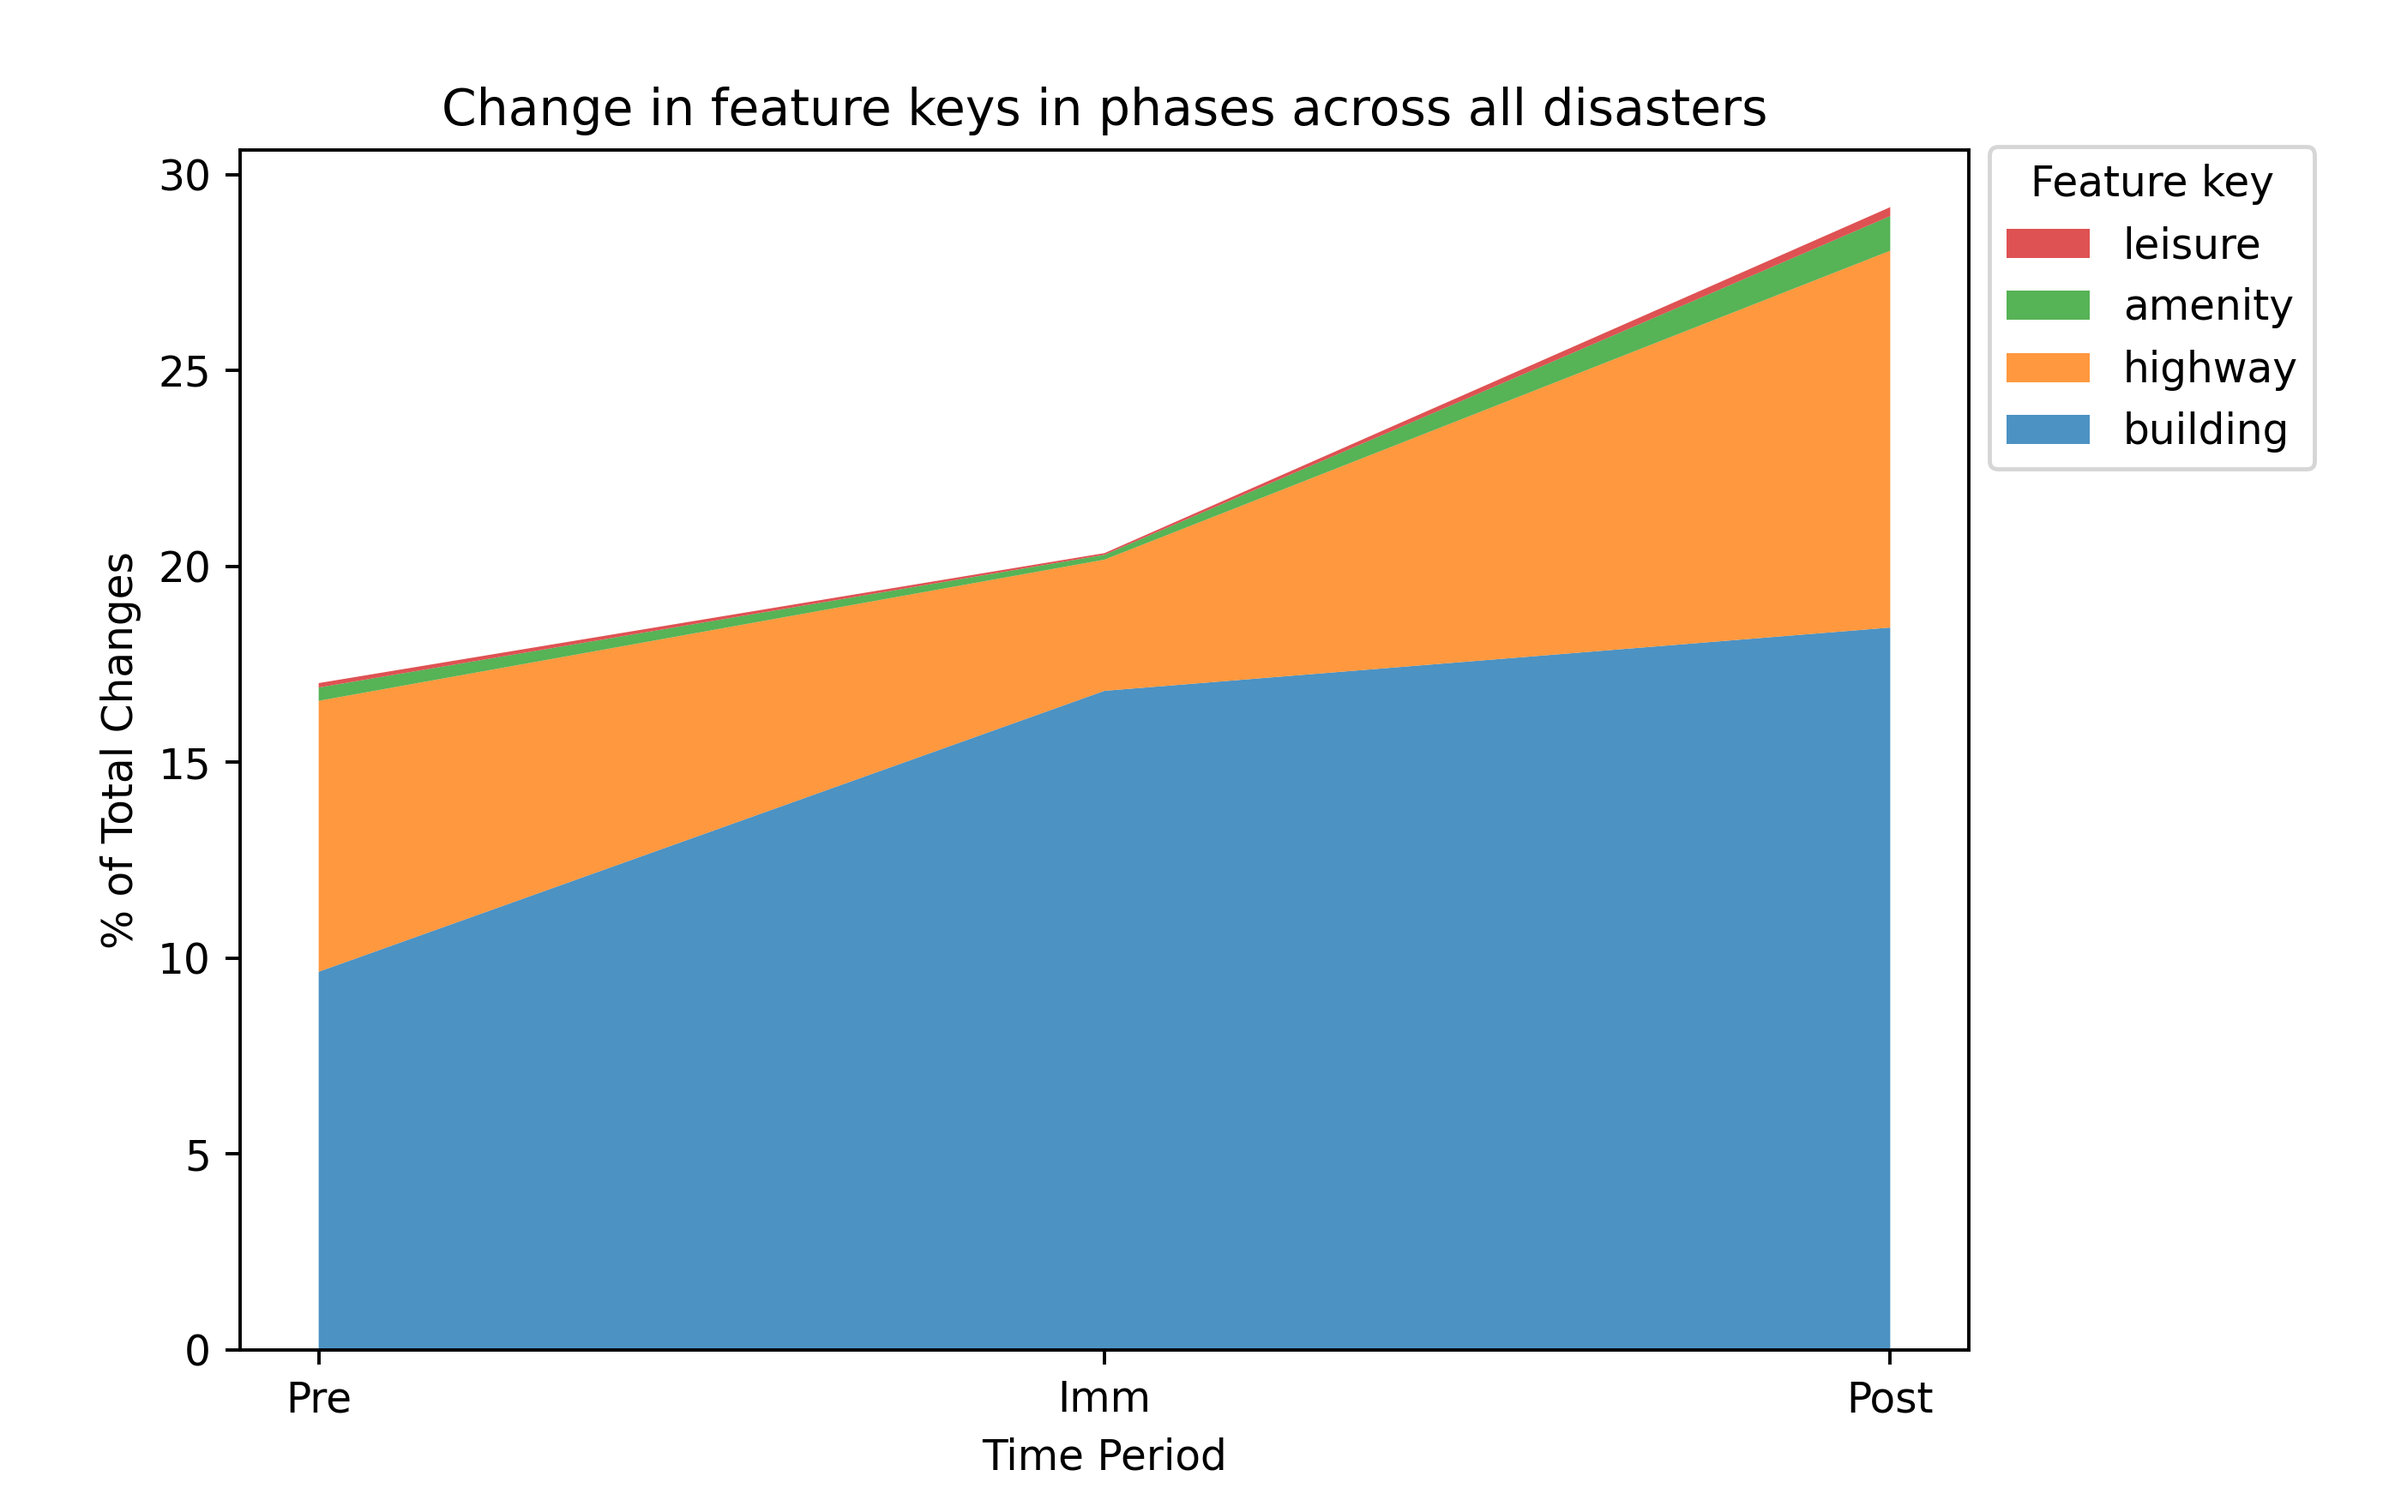
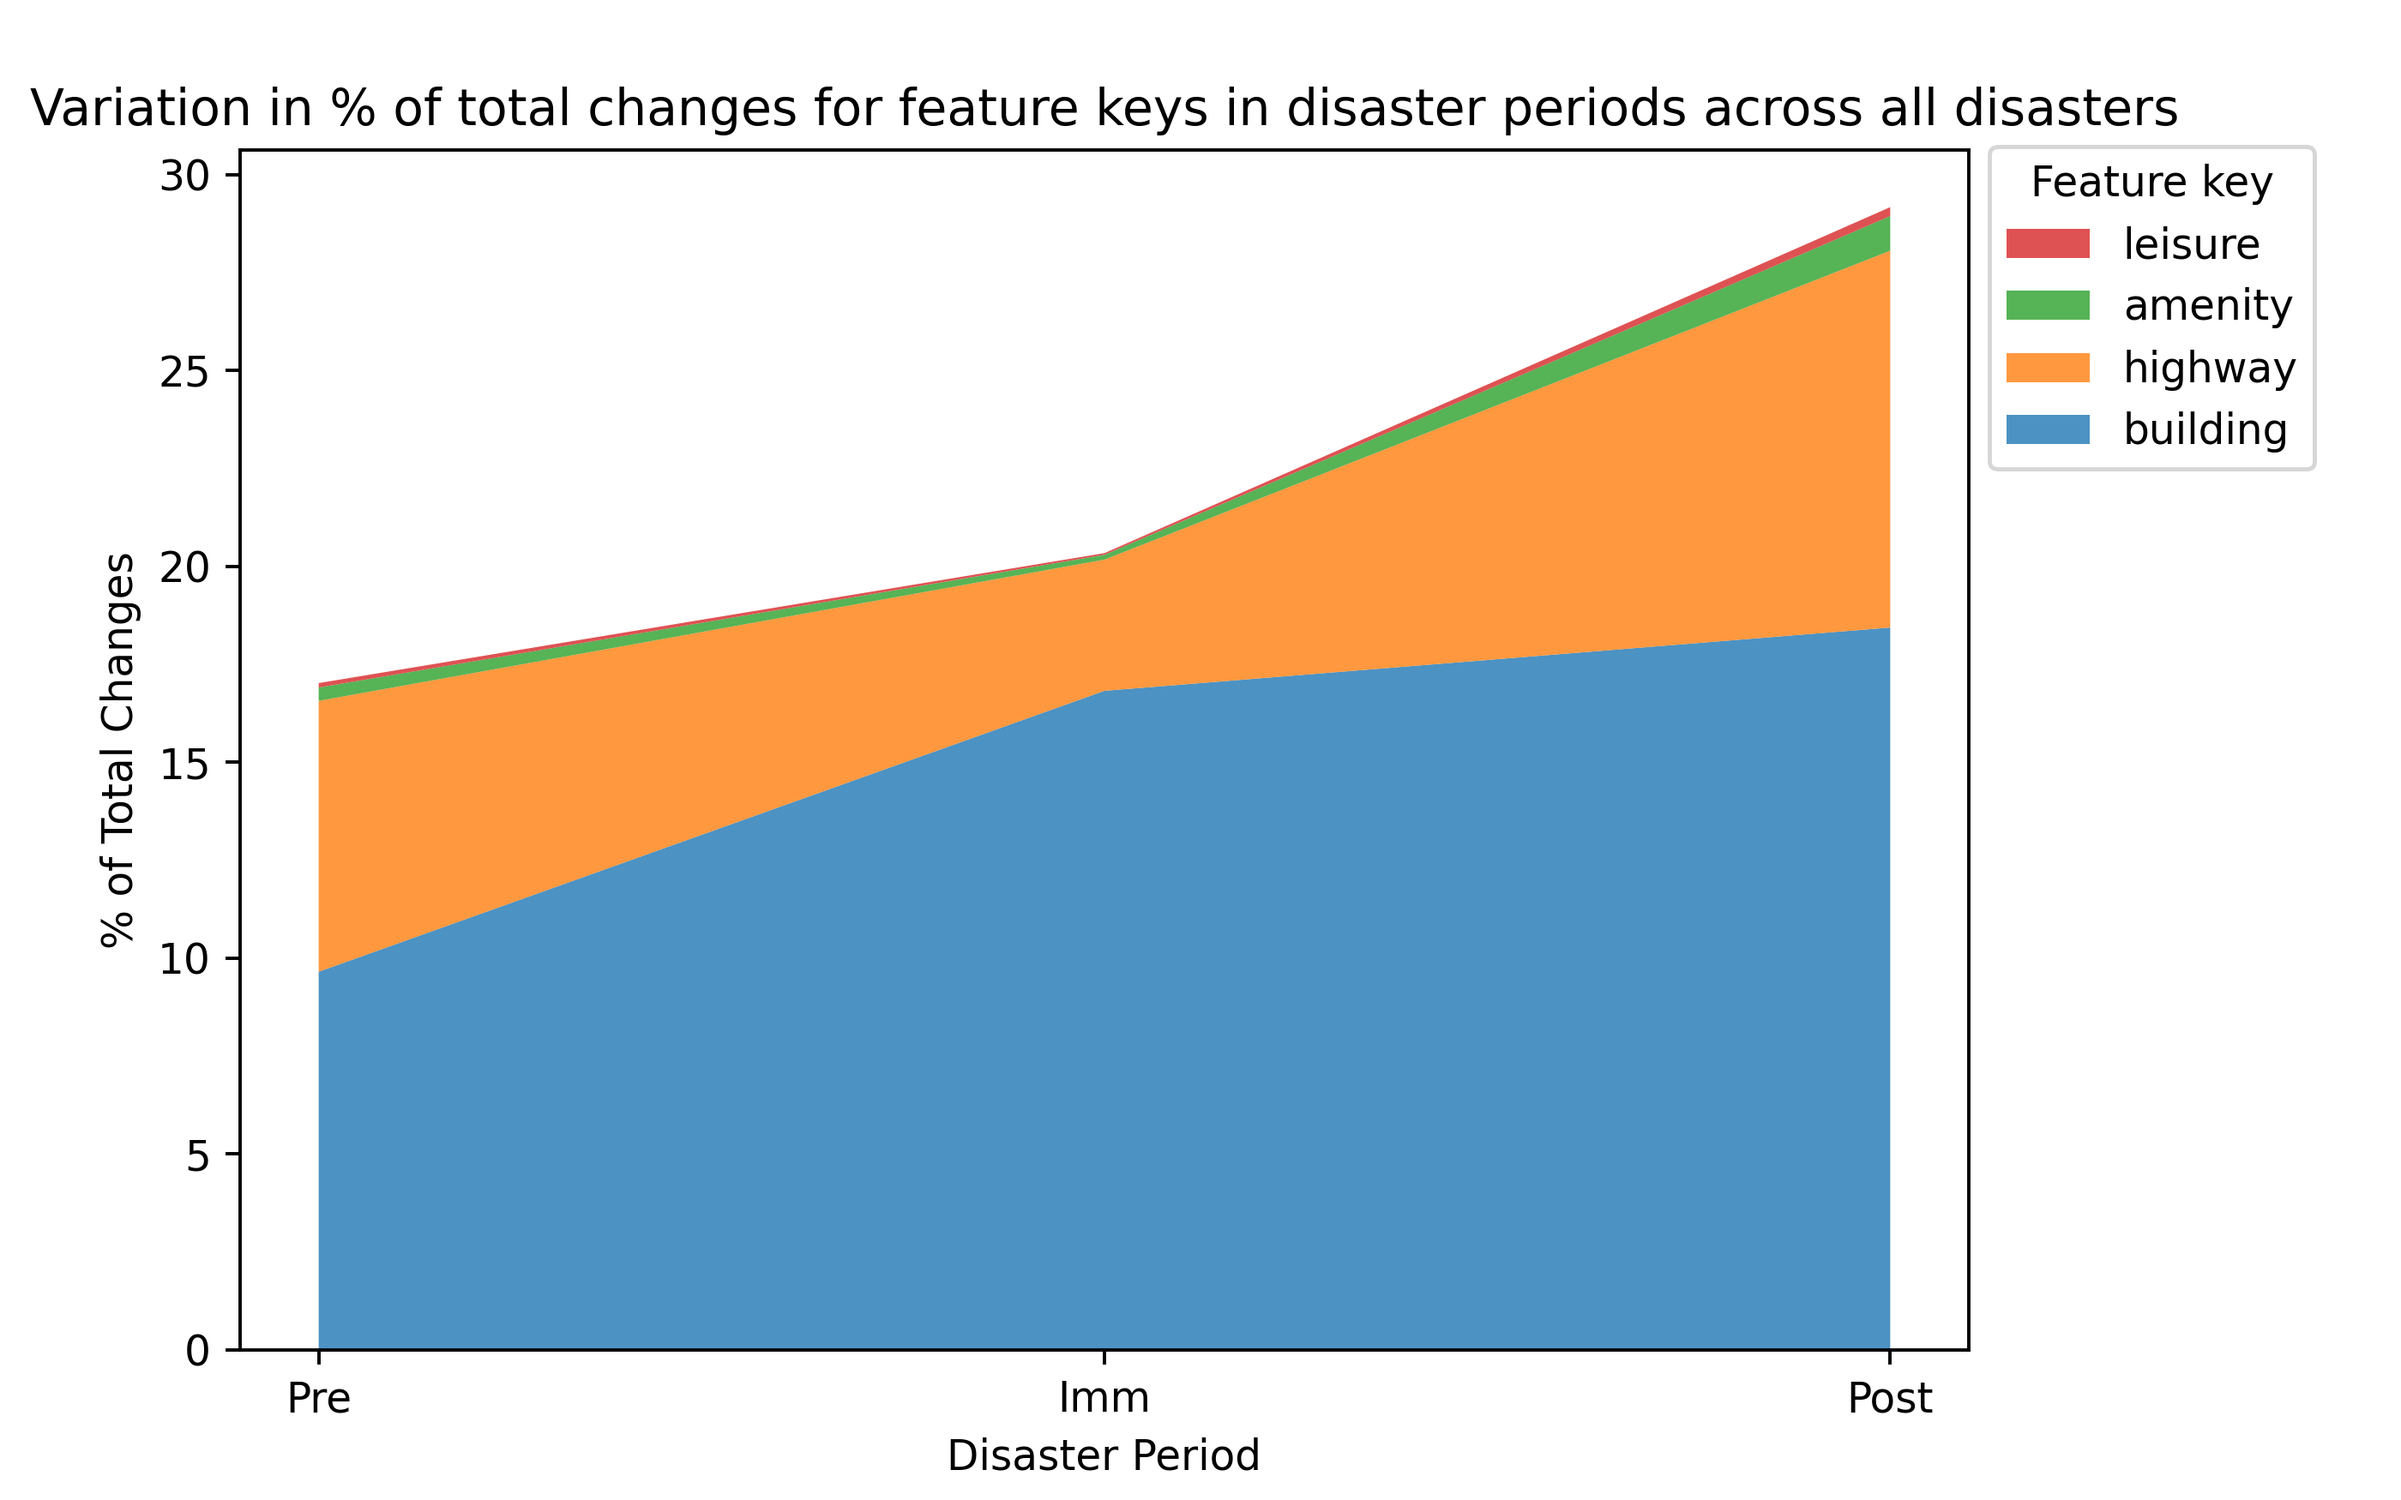
a

Changed region(s): [[0.0, 0.0617, 0.9011, 0.0926], [0.4039, 0.9566, 0.5282, 0.9874]]

diff --git a/Scripts/research_tools/change_differences/analyse_change_differences.py b/Scripts/research_tools/change_differences/analyse_change_differences.py
@@ -316,6 +316,65 @@ def process_disaster(disaster_id, periods, generate_merged, generate_diffs):
         print(f"Analysing diffs for {disaster_area[0]} {disaster_date.year} {period}")
         analyse_change_diffs(disaster_area[0], disaster_id, pre_disaster_days, imm_disaster_days, post_disaster_days)
 
+def analysis_all_periods(disaster_ids, period):
+    pre_disaster_days, imm_disaster_days, post_disaster_days = period
+
+    analysis_df = pd.read_csv(
+        f"./Results/ChangeDifferences/summary/all_disaster_analysis_{pre_disaster_days}_{imm_disaster_days}_{post_disaster_days}_.csv"
+    )
+
+    total_edits = analysis_df["total_changes"].sum()
+
+    total_tag_changes = analysis_df["tags_created"].sum() + analysis_df["tags_edited"].sum() + analysis_df["tags_deleted"].sum()
+    percent_tag_changes = (total_tag_changes / total_edits) * 100
+
+    total_coordinate_changes = analysis_df["coordinates_changed"].sum()
+    percent_coordinate_changes = (total_coordinate_changes / total_edits) * 100
+
+    total_way_geometry_changes = analysis_df["way_geometry_changed"].sum()
+    percent_way_geometry_changes = (total_way_geometry_changes / total_edits) * 100 if total_edits > 0 else 0
+
+
+    total_reverts = analysis_df["made_visible"].sum()
+    percent_reverts = (total_reverts / total_edits) * 100 
+
+    total_node_changes = analysis_df["nodes_changed"].sum()
+    percent_node_changes = (total_node_changes / total_edits) * 100 
+
+    total_way_changes = analysis_df["ways_changed"].sum()
+    percent_way_changes = (total_way_changes / total_edits) * 100 
+
+    mean_coordinate_distance_change = analysis_df["median_coordinate_distance_change"].mean()
+
+
+    print(f"Total number of edits across all disasters: {total_edits}")
+    print(f"Percentage of changes to nodes: {percent_node_changes:.2f}%")
+    print(f"Percentage of changes to ways: {percent_way_changes:.2f}%")
+
+    print(f"Percentage of edits involving tag changes: {percent_tag_changes:.2f}%")
+    print(f"Percentage of edits involving node coordinate changes: {percent_coordinate_changes:.2f}%")
+    print(f"Mean coordinate distance change: {mean_coordinate_distance_change:.4f} meters")
+    print(f"Percentage of edits involving way geometry changes: {percent_way_geometry_changes:.2f}%")
+    print(f"Percentage of edits that were reverting deletes: {percent_reverts:.2f}%")
+
+       # Save summary statistics
+    summary_data = {
+        "Total Edits": [total_edits],
+        "Tag Changes (%)": [percent_tag_changes],
+        "Coordinate Changes (%)": [percent_coordinate_changes],
+        "Way Geometry Changes (%)": [percent_way_geometry_changes],
+        "Reverting Deletes (%)": [percent_reverts],
+        "Node Changes (%)": [percent_node_changes],
+        "Way Changes (%)": [percent_way_changes],
+        "Mean of median Coordinate Distance Changes (m)": [mean_coordinate_distance_change]
+    }
+    summary_df = pd.DataFrame(summary_data)
+    summary_df.to_csv(
+        f"./Results/ChangeDifferences/summary/summary_metrics_{pre_disaster_days}_{imm_disaster_days}_{post_disaster_days}.csv",
+        index=False
+    )
+
+    return summary_df
 
 
 # Please make sure to run db_prepare_change_differences.py before running this script, to import missing 
@@ -357,4 +416,8 @@ if __name__ == "__main__":
     
     # Combine into 1 summary analysis
     for period in periods:
-        analysis_summary(disaster_ids, period[0], period[1], period[2])
+        #analysis_summary(disaster_ids, period[0], period[1], period[2])
+        pass
+
+    # Analysis by period for all disasters
+    analysis_all_periods(disaster_ids, (365,60,365))

diff --git a/Scripts/research_tools/count_changes_lower/total_disaster_area_changes_density.py b/Scripts/research_tools/count_changes_lower/total_disaster_area_changes_density.py
@@ -36,7 +36,7 @@ def compute_disaster_areas(disaster_ids):
             area = h3.cell_area(row["h3_index"], unit='km^2')
             accumulated_area += area
 
-        areas.loc[len(areas)] = {"disaster_id": int(disaster_id), "resolution": int(resolution), "num_hexes": int(len(hex_count)), "area": int(accumulated_area)}
+        areas.loc[len(areas)] = {"disaster_id": int(disaster_id), "resolution": int(resolution), "num_hexes": int(len(hex_count)), "area": round(accumulated_area,2)}
 
     areas.to_csv("Results/ChangeDensityMapping/Summary/data/disaster_areas.csv", index=False)
 
@@ -86,7 +86,7 @@ def plot_all_disaster_area_densities(disaster_ids, period):
     disaster_labels = [
         f"{disaster_area[0]} ({disaster_date.year})"
         for disaster_id in area_densitys["disaster_id"].tolist()
-        for _, _, disaster_area, _, disaster_date, _ in [db_utils.get_disaster_with_id(disaster_id)]
+        for _, _, disaster_area, _, disaster_date, _, _ in [db_utils.get_disaster_with_id(disaster_id)]
     ]
 
    # Create the figure and axis
@@ -301,14 +301,14 @@ def plot_percent_difference_density(disaster_ids, disaster_ids_type):
     ax.axhline(0, color='black', linewidth=1)
     ax.set_xticks(list(x))
     ax.set_xticklabels(x_labels, rotation=90)
-    ax.set_ylabel("Percent difference in density (%)")
-    ax.set_title(f'Change in mapping density between Pre-Imm and Pre-Post disaster periods, sorted by {"region" if disaster_ids_type == "region" else "disaster type"}')
+    ax.set_ylabel("Percent difference in change counts (%)")
+    ax.set_title(f'Change in mapping counts between Pre-Imm and Pre-Post disaster periods, sorted by {"region" if disaster_ids_type == "region" else "disaster type"}')
     ax.legend()
 
 
     # Add major and minor grid lines
-    ax.grid(which='major', color='black', linestyle='--', linewidth=0.5)
-    ax.grid(which='minor', color='gray', linestyle=':', linewidth=0.5)
+    ax.grid(which='major', color='black', linestyle='--', linewidth=0.5, zorder=0)
+    ax.grid(which='minor', color='gray', linestyle=':', linewidth=0.5, zorder=0)
     ax.minorticks_on()  # Ensures minor grid lines appear
 
     plt.tight_layout()

diff --git a/Scripts/research_tools/change_differences/tag_edit_types_prophet_modelling.py b/Scripts/research_tools/change_differences/tag_edit_types_prophet_modelling.py
@@ -266,7 +266,8 @@ def plot_tag_changes(disaster_id, disaster_area, disaster_country, disaster_date
     
     for change_type in plot_edit_types:
         plt.plot(tag_changes_df["start_date"], tag_changes_df[f"num_tag_{change_type}"], 
-                 label=f"{change_type.capitalize()}", linestyle="-", marker="o", color=color_map[change_type])
+                 label=f"{change_type.capitalize()}", linestyle="-", marker=".", color=color_map[change_type])
+
 
     # Plot Prophet predictions if enabled
     if prophet_model:
@@ -434,7 +435,7 @@ if __name__ == "__main__":
         print("Disaster IDs defined:", disaster_ids)
 
     compute_specific_bool = False
-    generate_specific_plot_bool = False
+    generate_specific_plot_bool = True
     generate_combined = True
 
     #disaster_ids = [2]

diff --git a/Scripts/research_tools/count_changes/count_changes.py b/Scripts/research_tools/count_changes/count_changes.py
@@ -324,8 +324,8 @@ def evaluate_prophet_model_forecasts(models, disaster_id, pre_disaster_days, imm
     mae = {}
     mape = {}
     for column in ["creates", "edits", "deletes", "total"]:
-        mae[column] = np.mean(np.abs(predictions_df[column] - counts_df[column]))
-        mape[column] = np.mean(np.abs((predictions_df[column] - counts_df[column]) / counts_df[column].replace(0, 1))) * 100
+        mae[column] = np.mean(predictions_df[column] - counts_df[column])
+        mape[column] = np.mean((predictions_df[column] - counts_df[column]) / counts_df[column].replace(0, 1)) * 100
 
     mae_row = pd.DataFrame(mae, index=["mae"])
     mape_row = pd.DataFrame(mape, index=["mape"])

diff --git a/Scripts/research_tools/investigate_tags/tag_investigation_charting.py b/Scripts/research_tools/investigate_tags/tag_investigation_charting.py
@@ -61,8 +61,8 @@ def plot_chart_percent_of_total_changes_period_for_keys(keys):
     ax.set_yscale('linear')
 
     # Labels & Formatting
-    ax.set_title("Change in feature keys in phases across all disasters")
-    ax.set_xlabel("Time Period")
+    ax.set_title(f"Variation in % of total changes for feature keys in disaster periods across all disasters")
+    ax.set_xlabel("Disaster Period")
     ax.set_ylabel(f"% of Total Changes")
 
     # Reverse the legend order

diff --git a/Scripts/research_tools/change_differences/amendment_vs_enrichment.py b/Scripts/research_tools/change_differences/amendment_vs_enrichment.py
@@ -124,7 +124,7 @@ def generate_full_periods_plot_for_all_disasters_by_tag_edit_type(pre_disaster_d
         tags_deleted = (np.array(tags_deleted) / total_changes) * 100
 
     # Create a stacked bar chart
-    plt.figure(figsize=(10, 6))
+    plt.figure(figsize=(8, 6))
     width = 0.6
     x = np.arange(len(periods))  # Use np.arange for proper alignment
 

diff --git a/Scripts/research_tools/investigate_tags/value_kendall_rank_correlation_coefficient.py b/Scripts/research_tools/investigate_tags/value_kendall_rank_correlation_coefficient.py
@@ -233,7 +233,7 @@ if __name__ == "__main__":
     periods = [("pre","imm"),("pre","post"), ("imm","post")]
 
     disaster_ids =  range(2,19)
-    top_n = 15
+    top_n = 12
 
     generate_kendall_correlations = False
     compute_statistics = True
